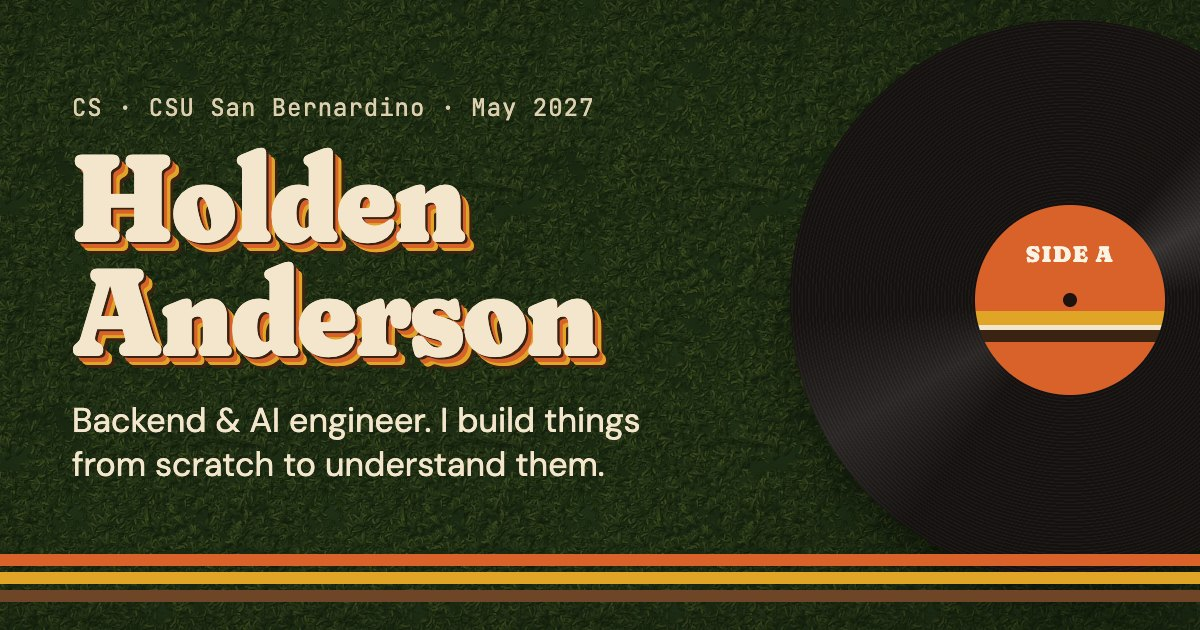
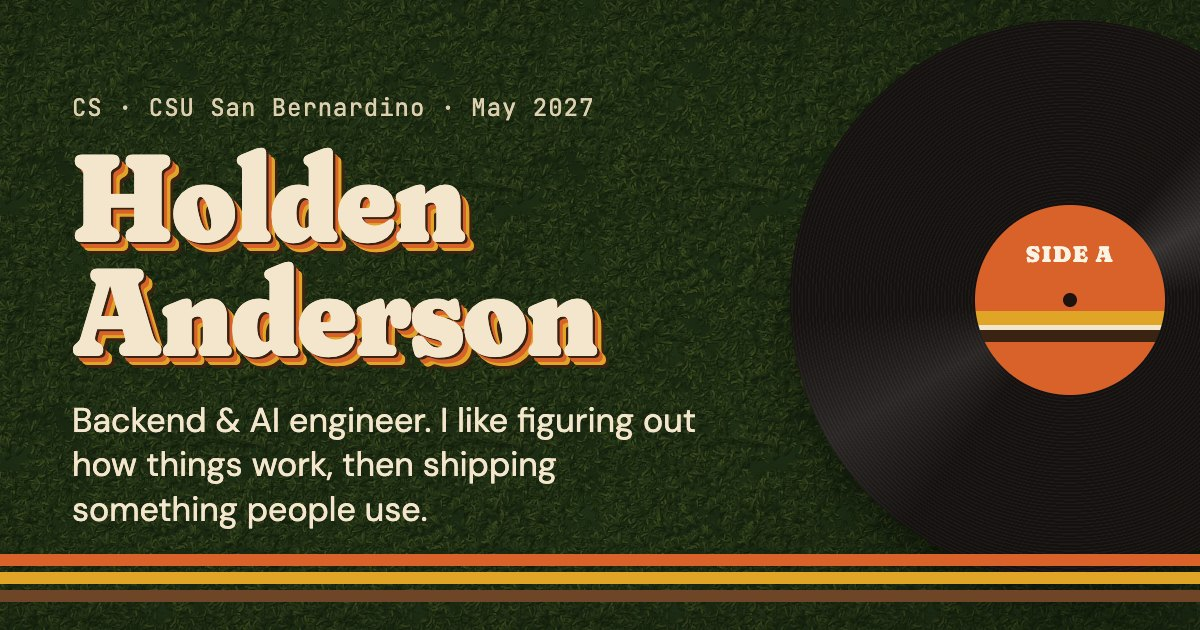
Copy: new hero tagline and About paragraph
Holden's own words, so their DRAFT markers come off. Meta description,
OG card (regenerated) and CLAUDE.md's example tagline follow.

Changed region(s): [[0.0617, 0.7238, 0.5242, 0.8444], [0.37, 0.6333, 0.5858, 0.6937]]

diff --git a/src/data/site.ts b/src/data/site.ts
@@ -1,12 +1,12 @@
 /** Site-wide facts. Every value here comes from CLAUDE.md; nothing is invented. */
 export const site = {
   name: 'Holden Anderson',
-  tagline: 'Backend & AI engineer. I build things from scratch to understand them.',
+  tagline: 'Backend & AI engineer. I like figuring out how things work, then shipping something people use.',
   school: 'CS at CSU San Bernardino',
   graduation: 'Graduating May 2027',
   lookingFor: 'Looking for new-grad backend, infrastructure or AI engineering roles starting June 2027.',
   description:
-    'Holden Anderson, CS student at CSU San Bernardino (May 2027). Backend, infrastructure and AI engineering, with the evidence linked.',
+    'Holden Anderson: backend & AI engineer, CS student at CSU San Bernardino (May 2027). I like figuring out how things work, then shipping something people use.',
   links: {
     github: 'https://github.com/HWalker13',
     linkedin: 'https://www.linkedin.com/in/holden-anderson123',

diff --git a/scripts/og/card.html b/scripts/og/card.html
@@ -123,7 +123,7 @@
     <div class="text">
       <p class="eyebrow">CS · CSU San Bernardino · May 2027</p>
       <h1>Holden<br />Anderson</h1>
-      <p class="tagline">Backend &amp; AI engineer. I build things from scratch to understand them.</p>
+      <p class="tagline">Backend &amp; AI engineer. I like figuring out how things work, then shipping something people use.</p>
     </div>
     <div class="stripes" aria-hidden="true"><span></span><span></span><span></span></div>
   </body>

diff --git a/CLAUDE.md b/CLAUDE.md
@@ -69,7 +69,7 @@ Add a dark theme under `@media (prefers-color-scheme: dark)` using deep brown (#
 
 ### Home (`/`), a single page
 
-1. **Hero:** name, a one-line description (e.g., "Backend & AI engineer. I build things from scratch to understand them."), and the **turntable** as the visual centerpiece. Primary links are always visible: GitHub, LinkedIn, Resume (PDF), Email.
+1. **Hero:** name, a one-line description (e.g., "Backend & AI engineer. I like figuring out how things work, then shipping something people use."), and the **turntable** as the visual centerpiece. Primary links are always visible: GitHub, LinkedIn, Resume (PDF), Email.
 2. **Tracklist (projects):** styled like the back of an album sleeve, as a numbered track listing split into **Side A** and **Side B**. Each "track" shows the project name, a one-line description, 1–2 headline numbers, and proof links (App Store / PyPI / GitHub), plus a link to its liner-notes page. It must scan like a list, not a puzzle.
    - Side A: 1. Lovely, 2. NFL Game Predictor
    - Side B: 3. swapLLM + swaptrace, 4. Kache
